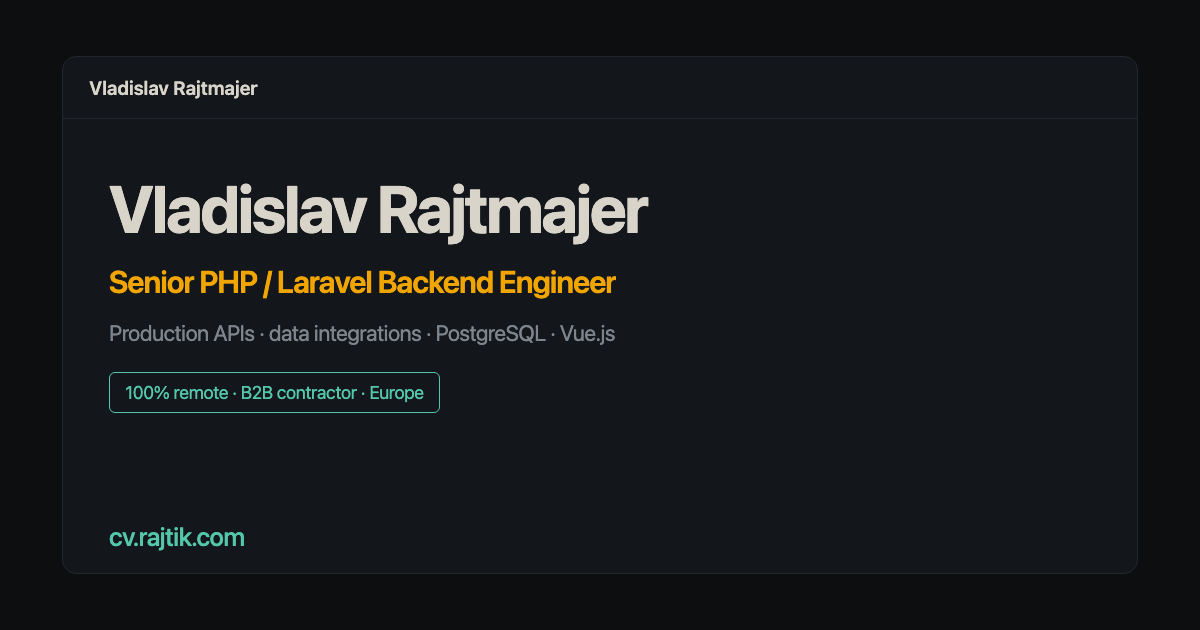
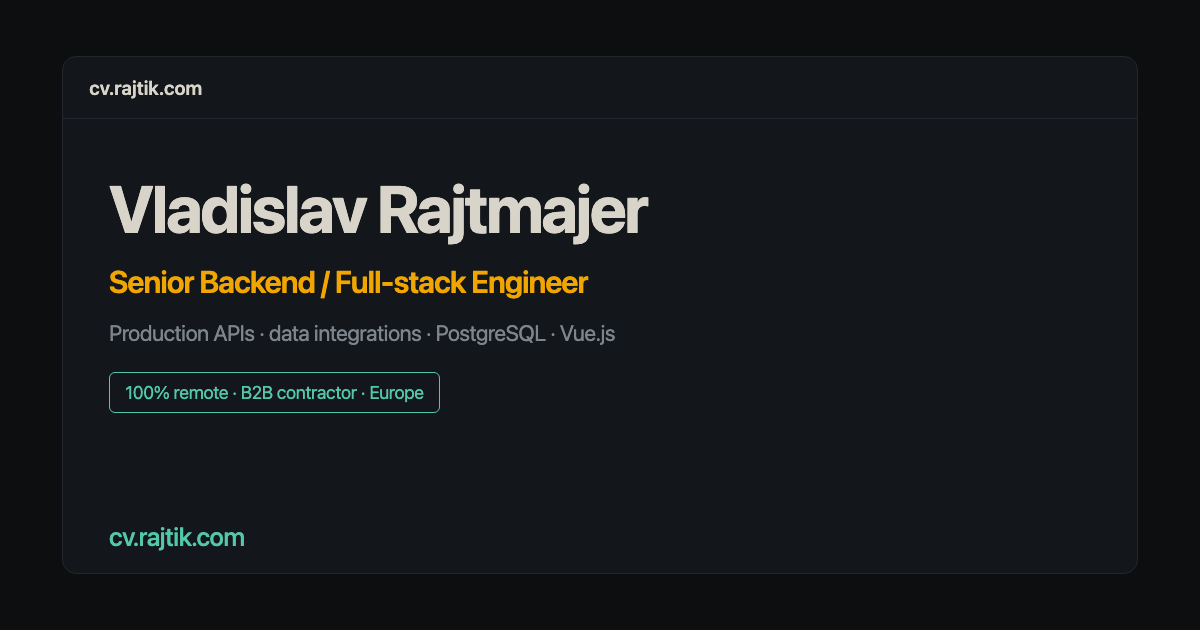
feat(cv): broaden headline and simplify header

Changed region(s): [[0.1542, 0.4222, 0.5242, 0.4825], [0.0617, 0.1206, 0.2158, 0.1508]]

diff --git a/src/i18n/en.ts b/src/i18n/en.ts
@@ -5,7 +5,7 @@ const en = {
   title: 'Vladislav Rajtmajer - Senior PHP / Laravel Backend Engineer',
   description: 'Senior PHP and Laravel engineer with 12+ years of experience. Production APIs, data integrations, PostgreSQL, Livewire and Vue.js. Available for remote B2B contracts in Europe.',
 
-  role: 'Senior PHP / Laravel Backend Engineer',
+  role: 'Senior Backend / Full-stack Engineer',
   meta: 'Pilsen, Czech Republic · 100% remote · B2B contractor',
   avail: 'available for full-time or part-time contracts',
   contactCta: 'Discuss a contract',

diff --git a/src/i18n/cs.ts b/src/i18n/cs.ts
@@ -7,7 +7,7 @@ const cs: Content = {
   title: 'Vladislav Rajtmajer - Senior PHP / Laravel vývojář',
   description: 'Senior PHP a Laravel vývojář s více než dvanácti lety praxe. Produkční API, datové integrace, PostgreSQL, Livewire a Vue.js. Plně remote spolupráce na IČO.',
 
-  role: 'Senior PHP / Laravel vývojář',
+  role: 'Senior Backend / Full-stack Engineer',
   meta: 'Plzeň · 100% remote · spolupráce na IČO',
   avail: 'k dispozici pro plný i částečný úvazek',
   contactCta: 'Probrat spolupráci',

diff --git a/og-src/og.html b/og-src/og.html
@@ -64,11 +64,11 @@
 <body>
   <div class="term">
     <div class="bar">
-      <span class="path">Vladislav Rajtmajer</span>
+      <span class="path">cv.rajtik.com</span>
     </div>
     <div class="body">
       <h1>Vladislav Rajtmajer</h1>
-      <p class="role">Senior PHP / Laravel Backend Engineer</p>
+      <p class="role">Senior Backend / Full-stack Engineer</p>
       <p class="meta">Production APIs · data integrations · PostgreSQL · Vue.js</p>
 
       <span class="badge">100% remote · B2B contractor · Europe</span>
